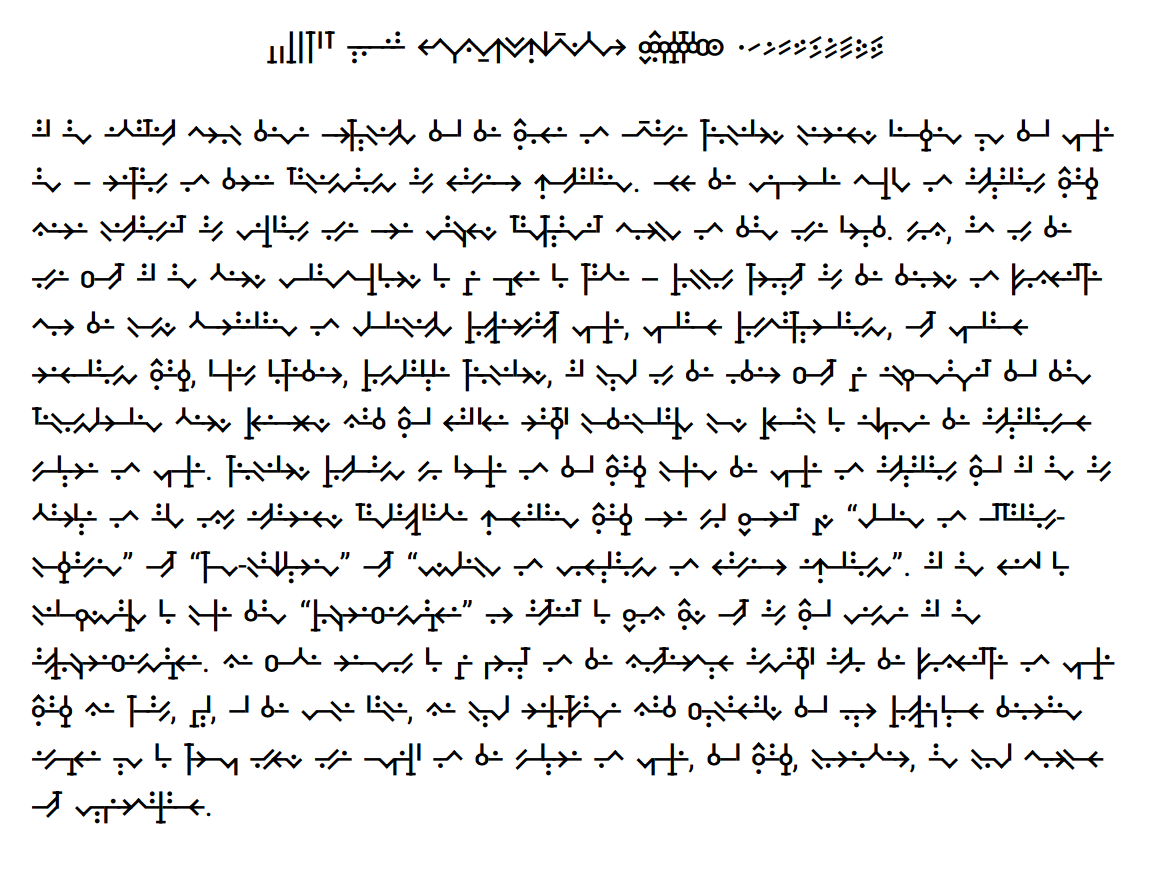
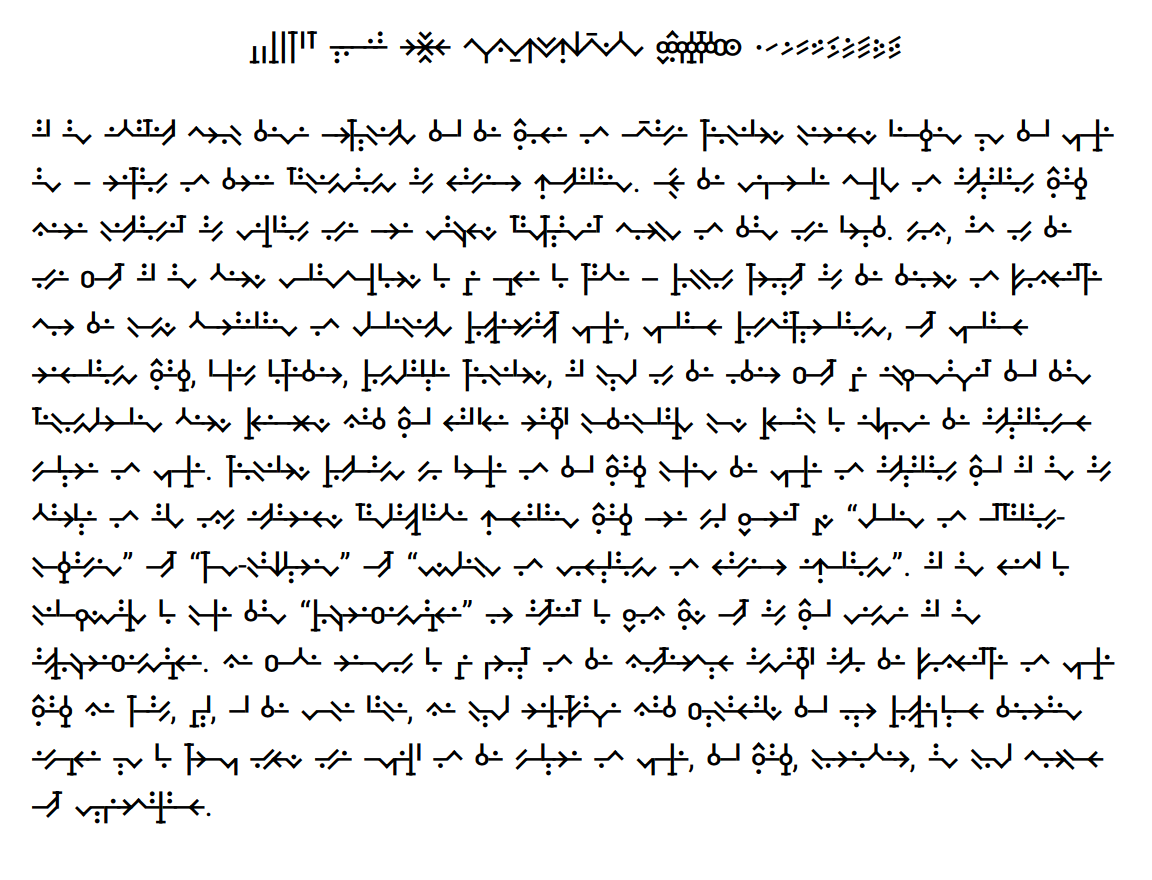
Add ll/rr

Changed region(s): [[0.2188, 0.0307, 0.7812, 0.092], [0.5938, 0.1841, 0.9688, 0.2455]]

diff --git a/specimen/specimen.html b/specimen/specimen.html
@@ -54,7 +54,7 @@
   </head>
   <body>
     <section class="affine" style="line-height: 1;text-align: center;">
-      <p>bpckgtd uoaei lfzwssqmnquxffyvsr shwhphchghthhj 0123456789</p>
+      <p>bpckgtd uoaei rrrlll fzwssqmnquxffyvs shwhphchghthhj 0123456789</p>
     </section>
 
     <div class="screen-two-up">
